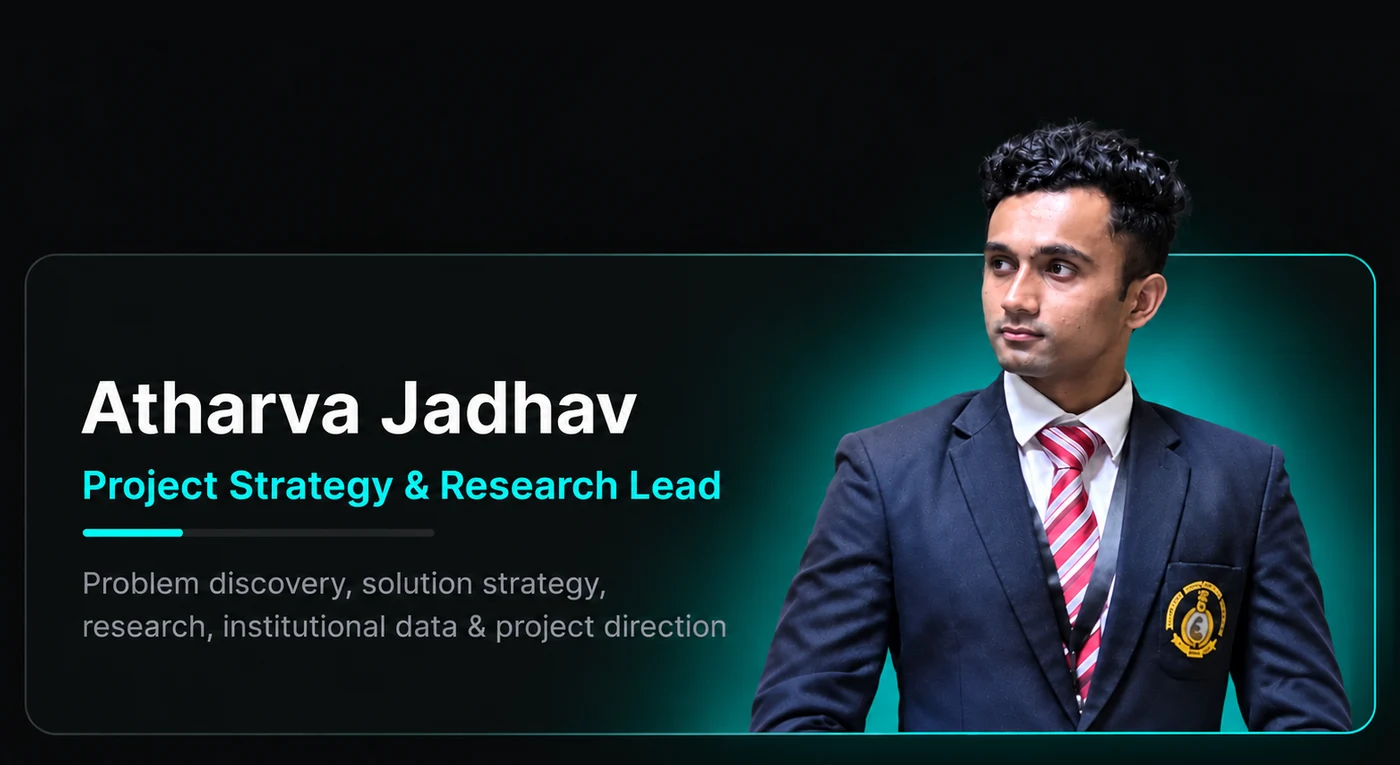
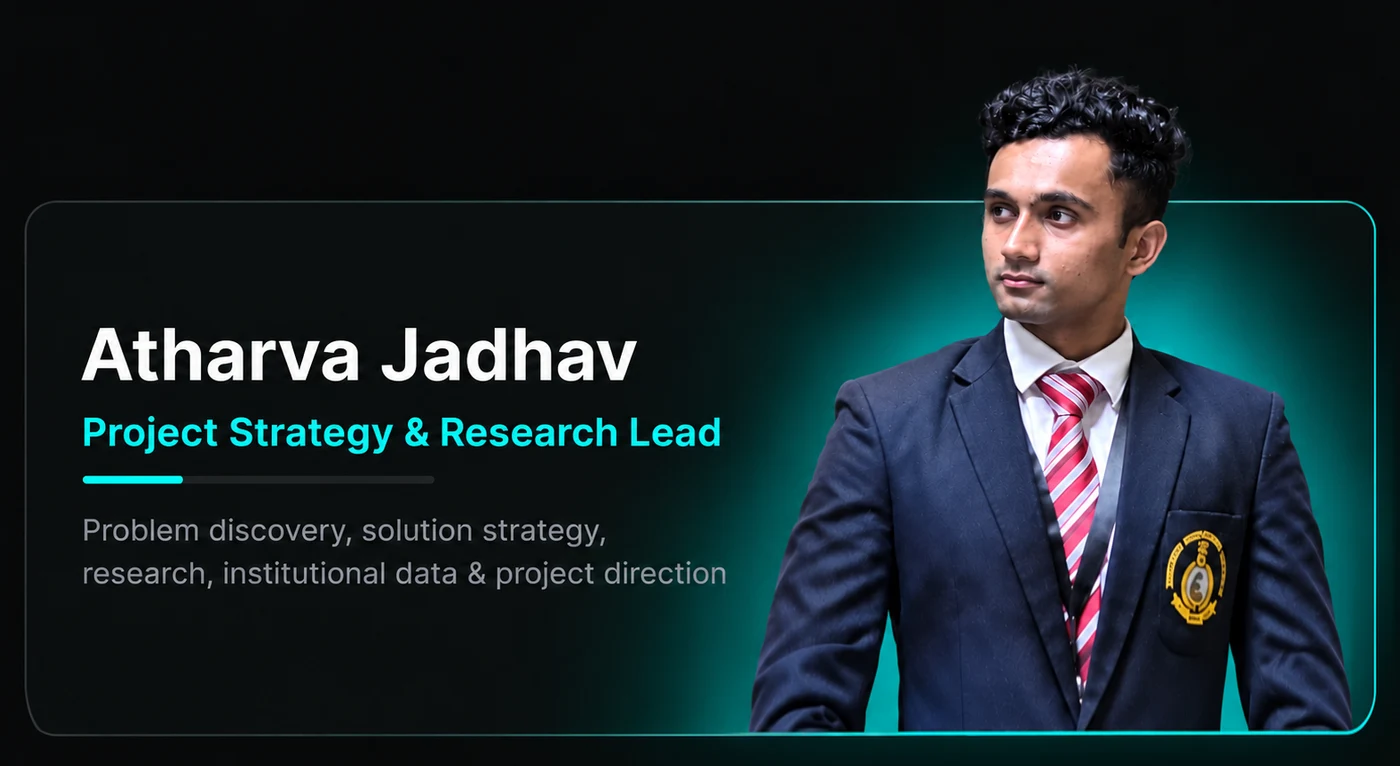
Team cards: make the smaller card boxes taller to match the biggest, faces untouched

Changed region(s): [[0.0614, 0.0902, 0.9829, 0.9621], [0.0614, 0.4209, 0.5221, 0.7817]]

diff --git a/dashboard/src/pages/Landing.jsx b/dashboard/src/pages/Landing.jsx
@@ -269,7 +269,7 @@ export default function Landing() {
         <div className="mt-10 grid gap-x-4 gap-y-2 md:grid-cols-2">
           {TEAM.map((m, i) => (
             <Reveal key={m.file} delay={(i % 2) * 120}>
-              <img src={`team/${m.file}.webp`} alt={m.alt} width="1400" height="765" loading="lazy" className="w-full select-none [mix-blend-mode:lighten]" />
+              <img src={`team/${m.file}.webp`} alt={m.alt} width="1400" height="766" loading="lazy" className="w-full select-none [mix-blend-mode:lighten]" />
             </Reveal>
           ))}
         </div>
